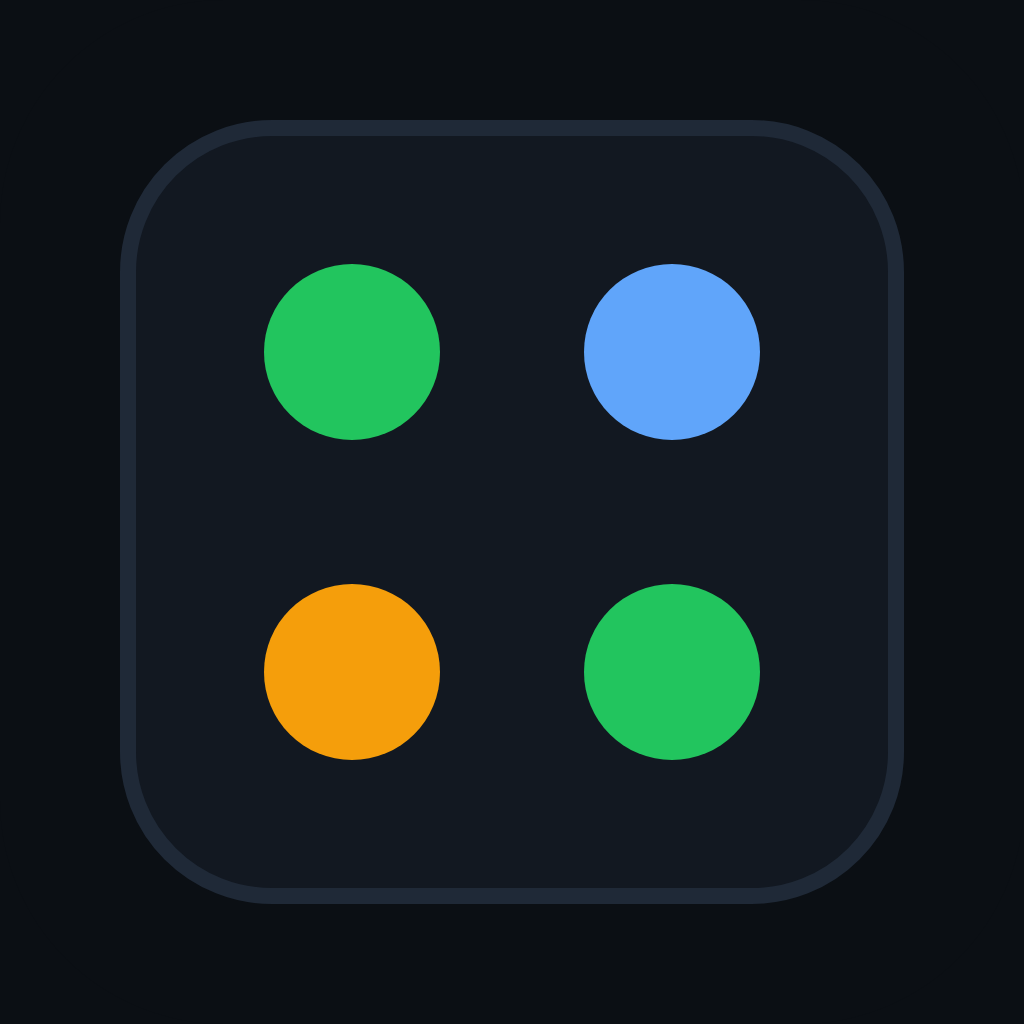
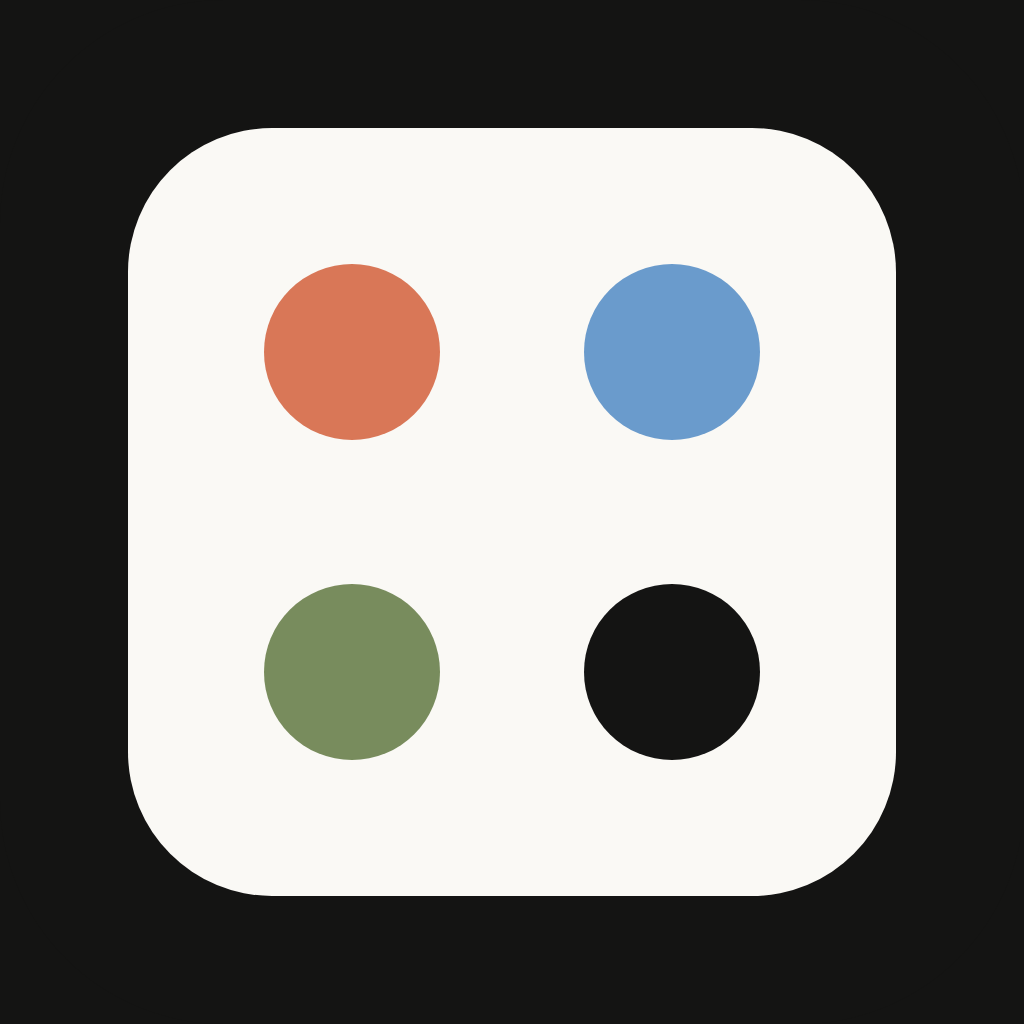
style(control-deck): apply brand palette and typography
Light theme: #faf9f5 background, #141413 ink, #e8e6dc and #b0aea5
neutrals, orange #d97757 as the primary action and down state, blue
#6a9bcc as the link accent, green #788c5d as the up state. Poppins for
headings, labels and buttons with an Arial fallback; Lora for body with
a Georgia fallback. Same palette on the manifest, the iOS launcher, the
Capacitor background, and the regenerated app icon.

Claude-Session: https://claude.ai/code/session_018U6WYm6LXs1Znp4WJhQtaA

diff --git a/control-deck/static/index.html b/control-deck/static/index.html
@@ -3,51 +3,57 @@
 <head>
 <meta charset="utf-8">
 <meta name="viewport" content="width=device-width, initial-scale=1, viewport-fit=cover">
-<meta name="theme-color" content="#0b0f14">
+<meta name="theme-color" content="#faf9f5">
 <meta name="apple-mobile-web-app-capable" content="yes">
-<meta name="apple-mobile-web-app-status-bar-style" content="black-translucent">
+<meta name="apple-mobile-web-app-status-bar-style" content="default">
 <meta name="apple-mobile-web-app-title" content="Deck">
 <link rel="manifest" href="/manifest.webmanifest">
 <link rel="apple-touch-icon" href="/apple-touch-icon.png">
 <link rel="icon" href="/static/icon.svg" type="image/svg+xml">
 <title>Control Deck</title>
+<link rel="preconnect" href="https://fonts.googleapis.com">
+<link rel="preconnect" href="https://fonts.gstatic.com" crossorigin>
+<link rel="stylesheet" href="https://fonts.googleapis.com/css2?family=Poppins:wght@500;600&family=Lora:wght@400;500&display=swap">
 <style>
   :root {
-    --bg: #0b0f14; --panel: #121821; --panel-2: #0f141b; --line: #1f2937; --text: #e5e7eb; --muted: #8b95a5;
-    --up: #22c55e; --down: #ef4444; --unknown: #f59e0b; --accent: #60a5fa; --accent-2: #a78bfa;
+    /* Anthropic brand palette */
+    --bg: #faf9f5; --panel: #ffffff; --panel-2: #e8e6dc; --line: #d9d6cb; --text: #141413; --muted: #6f6d66;
+    --up: #788c5d; --down: #d97757; --unknown: #b0aea5; --accent: #6a9bcc; --accent-2: #d97757;
     --mono: ui-monospace, SFMono-Regular, Menlo, Consolas, monospace;
+    --heading: "Poppins", Arial, Helvetica, sans-serif; --body: "Lora", Georgia, "Times New Roman", serif;
   }
   * { box-sizing: border-box; }
-  body { margin: 0; background: var(--bg); color: var(--text); font: 14px/1.45 system-ui, -apple-system, Segoe UI, Roboto, sans-serif; padding: 16px; }
+  body { margin: 0; background: var(--bg); color: var(--text); font: 14px/1.5 var(--body); padding: 16px; }
   header { display: flex; flex-wrap: wrap; gap: 12px; align-items: center; justify-content: space-between; margin-bottom: 14px; }
-  h1 { font-size: 18px; margin: 0; letter-spacing: .02em; }
+  h1 { font-family: var(--heading); font-weight: 600; font-size: 24px; margin: 0; letter-spacing: -.01em; }
   h1 span { color: var(--muted); font-weight: 400; font-size: 12px; margin-left: 8px; }
   .cmd { display: flex; gap: 8px; flex: 1 1 420px; max-width: 720px; }
   .cmd input { flex: 1; background: var(--panel); border: 1px solid var(--line); color: var(--text); padding: 9px 12px; border-radius: 8px; font-family: var(--mono); font-size: 13px; }
-  .cmd button, .actions button, .jobs button { background: var(--panel-2); border: 1px solid var(--line); color: var(--text); padding: 7px 11px; border-radius: 7px; cursor: pointer; font-size: 12px; }
+  .cmd button, .actions button, .jobs button { font-family: var(--heading); font-weight: 500; background: var(--panel-2); border: 1px solid var(--line); color: var(--text); padding: 7px 11px; border-radius: 7px; cursor: pointer; font-size: 12px; }
+  .cmd button[type=submit] { background: var(--accent-2); border-color: var(--accent-2); color: #faf9f5; }
   .cmd button:hover, .actions button:hover, .jobs button:hover { border-color: var(--accent); }
   .host { display: grid; grid-template-columns: repeat(auto-fit, minmax(150px, 1fr)); gap: 10px; margin-bottom: 14px; }
   .metric { background: var(--panel); border: 1px solid var(--line); border-radius: 10px; padding: 10px 12px; }
-  .metric .k { color: var(--muted); font-size: 11px; text-transform: uppercase; letter-spacing: .06em; }
+  .metric .k { font-family: var(--heading); font-weight: 500; color: var(--muted); font-size: 11px; text-transform: uppercase; letter-spacing: .06em; }
   .metric .v { font-family: var(--mono); font-size: 16px; margin-top: 2px; font-variant-numeric: tabular-nums; }
-  .bar { height: 5px; background: #1f2937; border-radius: 3px; margin-top: 6px; overflow: hidden; }
+  .bar { height: 5px; background: var(--panel-2); border-radius: 3px; margin-top: 6px; overflow: hidden; }
   .bar i { display: block; height: 100%; background: var(--accent); }
   .grid { display: grid; grid-template-columns: repeat(auto-fill, minmax(320px, 1fr)); gap: 12px; }
   .card { background: var(--panel); border: 1px solid var(--line); border-radius: 12px; padding: 12px 14px; display: flex; flex-direction: column; gap: 8px; min-width: 0; }
   .card .top { display: flex; align-items: center; gap: 8px; }
-  .dot { width: 10px; height: 10px; border-radius: 50%; background: var(--unknown); flex: none; box-shadow: 0 0 0 3px rgba(255,255,255,.04); }
+  .dot { width: 10px; height: 10px; border-radius: 50%; background: var(--unknown); flex: none; box-shadow: 0 0 0 3px rgba(20,20,19,.06); }
   .dot.up { background: var(--up); } .dot.down { background: var(--down); }
-  .card .name { font-weight: 600; }
-  .card .kind { color: var(--muted); font-size: 11px; margin-left: auto; text-transform: uppercase; letter-spacing: .06em; }
+  .card .name { font-family: var(--heading); font-weight: 600; font-size: 15px; }
+  .card .kind { font-family: var(--heading); font-weight: 500; color: var(--muted); font-size: 11px; margin-left: auto; text-transform: uppercase; letter-spacing: .06em; }
   .card .cwd { color: var(--muted); font-family: var(--mono); font-size: 11px; white-space: nowrap; overflow: hidden; text-overflow: ellipsis; }
   .card .cwd.missing { color: var(--down); }
-  .card pre { margin: 0; background: var(--panel-2); border: 1px solid var(--line); border-radius: 8px; padding: 8px 10px; font-family: var(--mono); font-size: 11.5px; max-height: 150px; overflow: auto; white-space: pre-wrap; word-break: break-word; color: #cbd5e1; }
+  .card pre { margin: 0; background: #141413; border: 1px solid #141413; border-radius: 8px; padding: 8px 10px; font-family: var(--mono); font-size: 11.5px; max-height: 150px; overflow: auto; white-space: pre-wrap; word-break: break-word; color: #e8e6dc; }
   .actions { display: flex; flex-wrap: wrap; gap: 6px; }
-  .actions button.medium { border-color: #7c5a12; } .actions button.high { border-color: #7f1d1d; }
+  .actions button.medium { border-color: var(--accent-2); } .actions button.high { border-color: #141413; background: #141413; color: #faf9f5; }
   .links a { color: var(--accent); font-size: 12px; margin-right: 10px; text-decoration: none; }
   .note { color: var(--muted); font-size: 11.5px; }
   .jobs { margin-top: 16px; background: var(--panel); border: 1px solid var(--line); border-radius: 12px; padding: 12px 14px; }
-  .jobs h2 { font-size: 13px; margin: 0 0 8px; color: var(--muted); text-transform: uppercase; letter-spacing: .06em; }
+  .jobs h2 { font-family: var(--heading); font-size: 13px; font-weight: 600; margin: 0 0 8px; color: var(--muted); text-transform: uppercase; letter-spacing: .06em; }
   table { width: 100%; border-collapse: collapse; font-size: 12.5px; }
   th, td { text-align: left; padding: 6px 8px; border-bottom: 1px solid var(--line); vertical-align: top; }
   th { color: var(--muted); font-weight: 500; }
@@ -55,10 +61,10 @@
   .st.running, .st.detached { color: var(--accent); } .st.finished { color: var(--up); } .st.failed, .st.timeout, .st.stopped { color: var(--down); }
   #drawer { position: fixed; right: 0; top: 0; bottom: 0; width: min(720px, 100vw); background: var(--panel); border-left: 1px solid var(--line); padding: 14px; overflow: auto; transform: translateX(105%); transition: transform .18s ease; z-index: 10; }
   #drawer.open { transform: none; }
-  #drawer pre { font-size: 11.5px; max-height: none; }
-  #toast { position: fixed; left: 50%; bottom: 18px; transform: translateX(-50%); background: #1e293b; border: 1px solid var(--line); padding: 8px 14px; border-radius: 8px; font-size: 12.5px; opacity: 0; transition: opacity .2s; pointer-events: none; }
+  #drawer pre { font-size: 11.5px; max-height: none; background: #141413; color: #e8e6dc; }
+  #toast { position: fixed; left: 50%; bottom: 18px; transform: translateX(-50%); background: #141413; color: #faf9f5; border: 1px solid #141413; padding: 8px 14px; border-radius: 8px; font-size: 12.5px; opacity: 0; transition: opacity .2s; pointer-events: none; }
   #toast.show { opacity: 1; }
-  .procs { font-family: var(--mono); font-size: 11.5px; color: #cbd5e1; }
+  .procs { font-family: var(--mono); font-size: 11.5px; color: var(--text); }
   .procs div { display: grid; grid-template-columns: 60px 56px 56px 1fr; gap: 6px; }
   .procs .h { color: var(--muted); }
   @media (max-width: 700px) {

diff --git a/control-deck/ios-app/www/index.html b/control-deck/ios-app/www/index.html
@@ -5,13 +5,13 @@
 <meta name="viewport" content="width=device-width, initial-scale=1, viewport-fit=cover">
 <title>Control Deck</title>
 <style>
-  body { margin: 0; background: #0b0f14; color: #e5e7eb; font: 16px/1.5 -apple-system, system-ui, sans-serif; padding: calc(24px + env(safe-area-inset-top)) 20px 24px; }
-  h1 { font-size: 22px; margin: 0 0 4px; } p { color: #8b95a5; margin: 0 0 18px; font-size: 14px; }
-  label { display: block; font-size: 12px; color: #8b95a5; text-transform: uppercase; letter-spacing: .06em; margin: 14px 0 6px; }
-  input { width: 100%; box-sizing: border-box; background: #121821; border: 1px solid #1f2937; color: #e5e7eb; border-radius: 10px; padding: 12px 14px; font-size: 16px; font-family: ui-monospace, Menlo, monospace; }
-  button { width: 100%; margin-top: 20px; background: #1d4ed8; color: white; border: 0; border-radius: 10px; padding: 14px; font-size: 16px; font-weight: 600; }
-  .err { color: #ef4444; font-size: 13px; margin-top: 10px; min-height: 18px; }
-  .hint { font-size: 12.5px; color: #8b95a5; margin-top: 18px; }
+  body { margin: 0; background: #faf9f5; color: #141413; font: 16px/1.5 "Lora", Georgia, serif; padding: calc(24px + env(safe-area-inset-top)) 20px 24px; }
+  h1 { font-family: "Poppins", Arial, sans-serif; font-weight: 600; font-size: 24px; margin: 0 0 4px; } p { color: #6f6d66; margin: 0 0 18px; font-size: 14px; }
+  label { display: block; font-family: "Poppins", Arial, sans-serif; font-size: 12px; color: #6f6d66; text-transform: uppercase; letter-spacing: .06em; margin: 14px 0 6px; }
+  input { width: 100%; box-sizing: border-box; background: #ffffff; border: 1px solid #d9d6cb; color: #141413; border-radius: 10px; padding: 12px 14px; font-size: 16px; font-family: ui-monospace, Menlo, monospace; }
+  button { width: 100%; margin-top: 20px; background: #d97757; color: #faf9f5; border: 0; border-radius: 10px; padding: 14px; font-family: "Poppins", Arial, sans-serif; font-size: 16px; font-weight: 600; }
+  .err { color: #d97757; font-size: 13px; margin-top: 10px; min-height: 18px; }
+  .hint { font-size: 12.5px; color: #6f6d66; margin-top: 18px; }
 </style>
 </head>
 <body>
